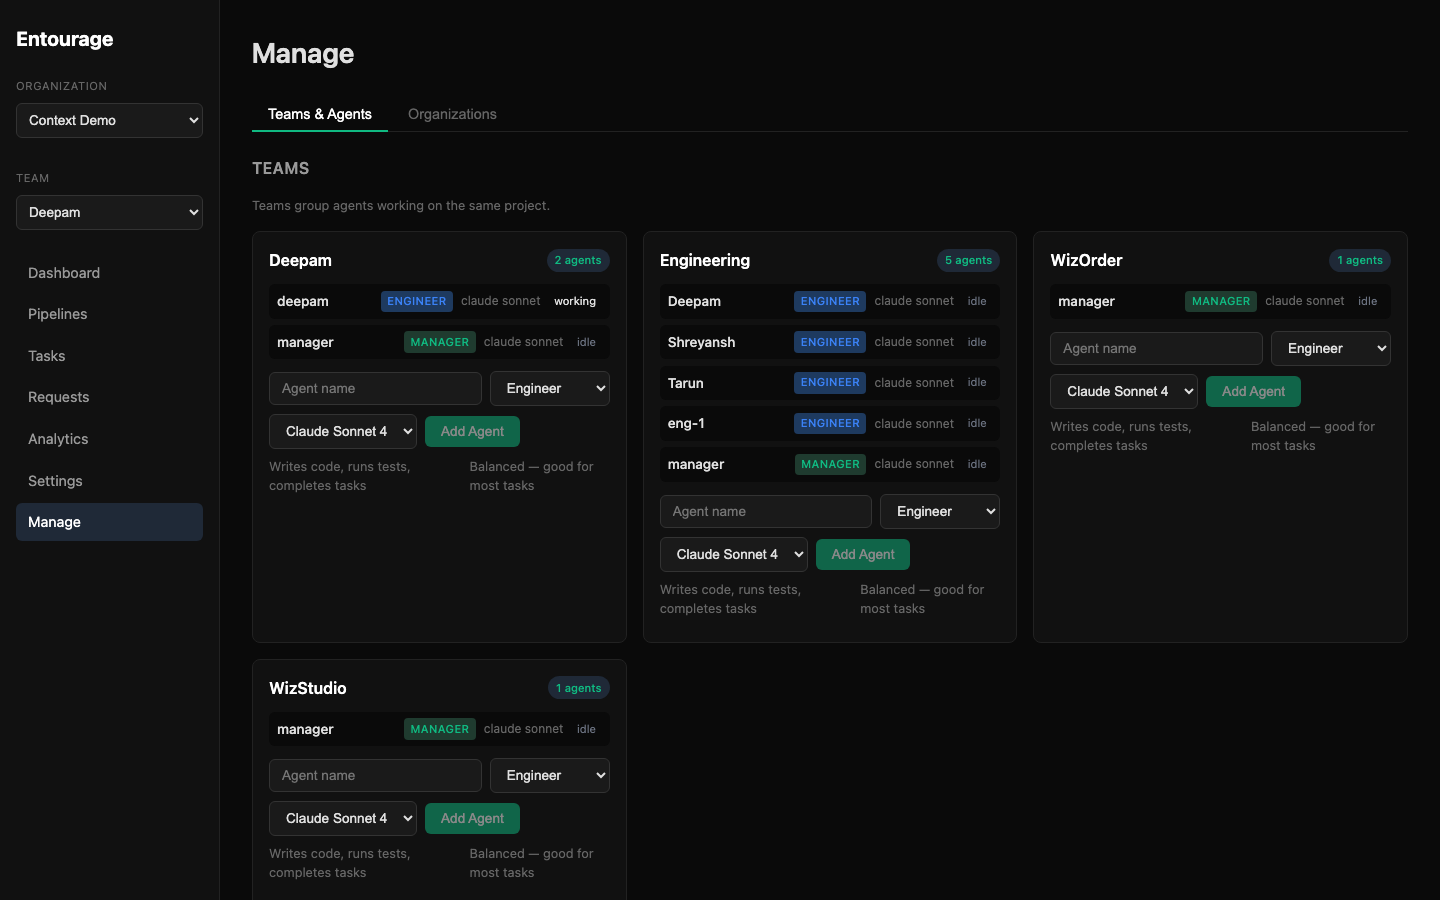
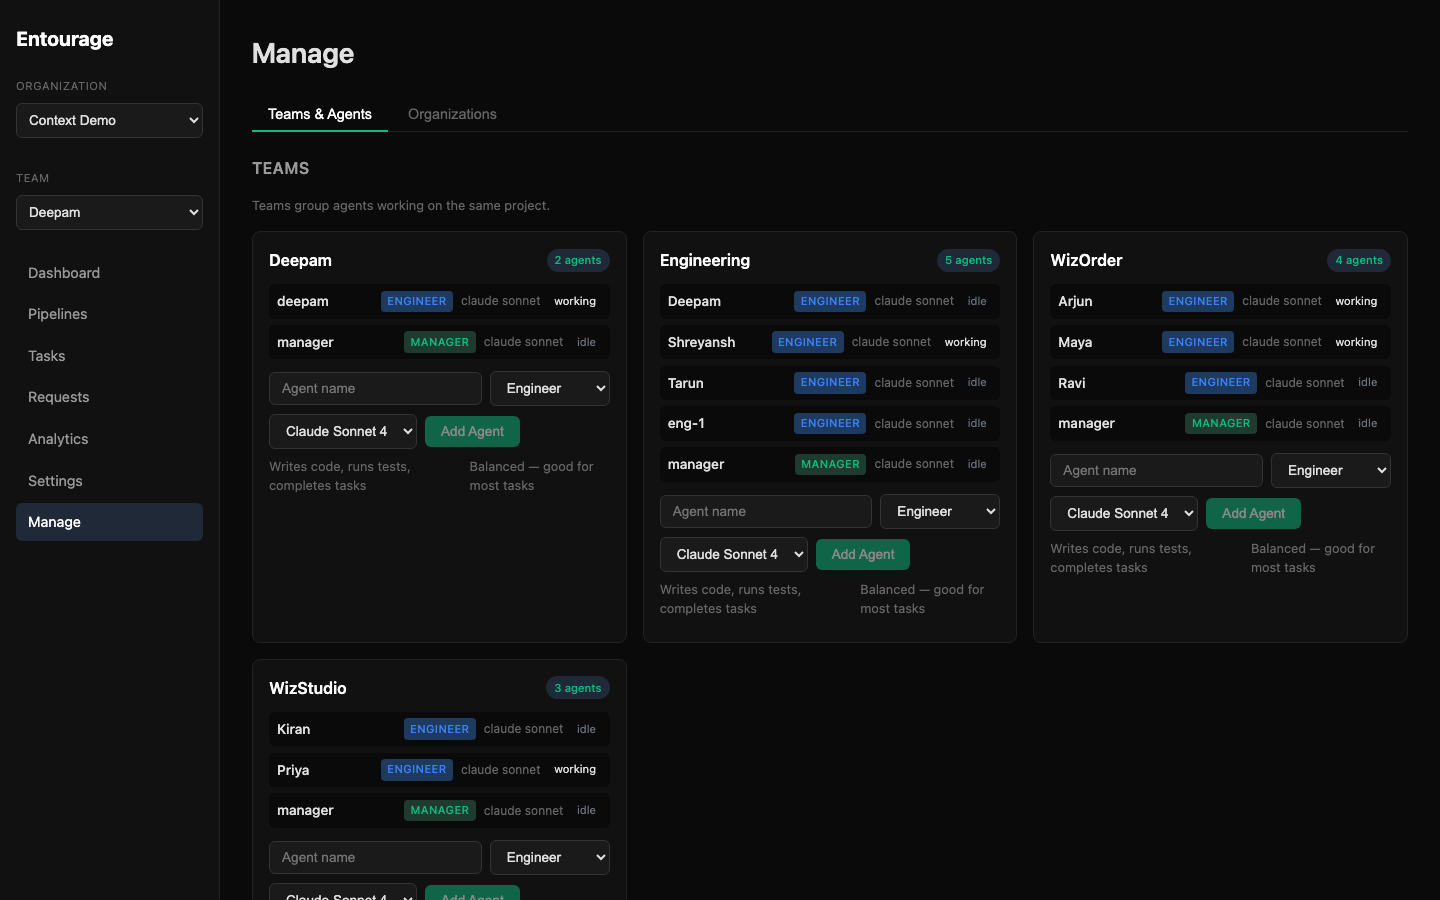
docs: add populated teams & agents screenshot to README
Re-capture manage page with 4 teams (Deepam, Engineering, WizOrder,
WizStudio), 14 agents across roles, and mixed working/idle statuses.
Add as full-width row in the screenshots table.

Changed region(s): [[0.7188, 0.3111, 0.9688, 0.6533], [0.1875, 0.7778, 0.4375, 1.0], [0.5312, 0.3733, 0.6875, 0.4044]]

diff --git a/README.md b/README.md
@@ -90,6 +90,13 @@ Humans stay in control. Agents stay productive. Nothing ships without oversight.
 <img src="docs/assets/screenshot-analytics.png" alt="Analytics" width="100%" />
 </td>
 </tr>
+<tr>
+<td colspan="2">
+<strong>Teams & Agents</strong> — Multi-team management with role badges, model selection, and live status
+<br /><br />
+<img src="docs/assets/screenshot-manage.png" alt="Teams & Agents" width="100%" />
+</td>
+</tr>
 </table>
 
 ## What you get
